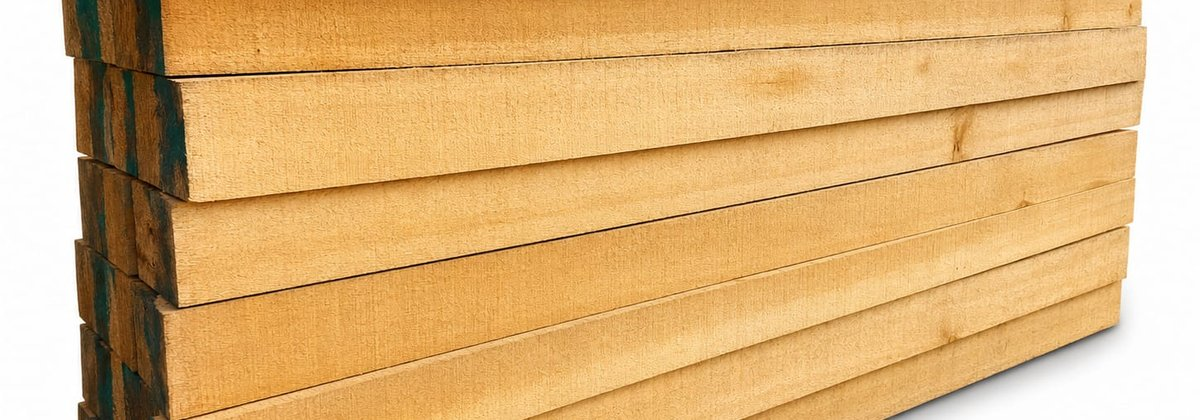
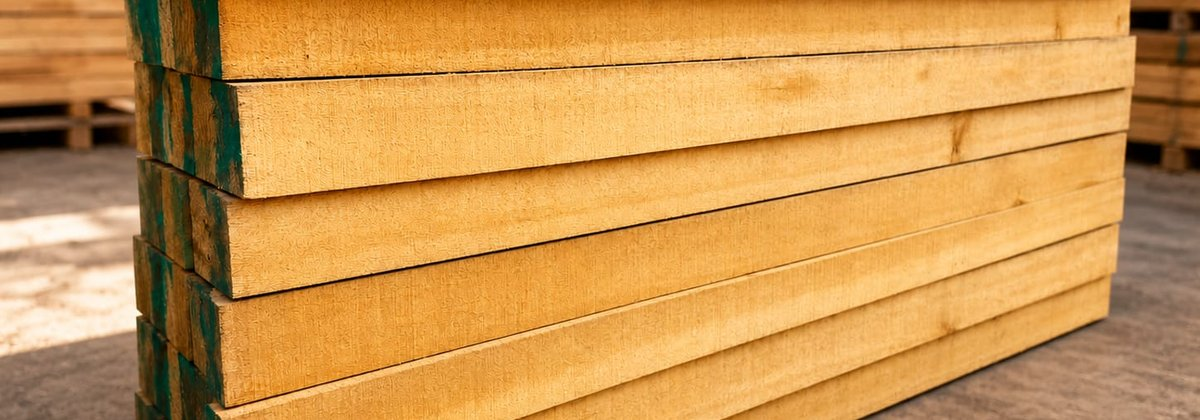
change

diff --git a/timber/index.html b/timber/index.html
@@ -114,7 +114,7 @@ footer{background:var(--espresso);color:#A8987F;padding:32px 0 100px;font-size:.
 <h3>Meranti / Marandi Wood</h3><p>Red Meranti, Yellow Meranti, Lal Marandi</p>
 <span class="t-price">₹1,100 – ₹1,800 <small>/ cft*</small></span>
 <span class="t-go">View details & rate →</span></a><a class="t-card" href="partal/">
-<img class="hub-thumb" src="images/partal-wood-mohali.svg" alt="Partal Wood (Partal Lakdi) at Guru Kripa Timber &amp; Plywood, Mohali — Punjab&#x27;s largest timber range" title="Partal Wood Price in Mohali, Punjab" width="1200" height="420" loading="lazy">
+<img class="hub-thumb" src="images/partal-wood-mohali.jpg" alt="Partal Wood (Partal Lakdi) at Guru Kripa Timber &amp; Plywood, Mohali — Punjab&#x27;s largest timber range" title="Partal Wood Price in Mohali, Punjab" width="1200" height="420" loading="lazy">
 <h3>Partal Wood</h3><p>Partal Lakdi, Himalayan Spruce/Fir</p>
 <span class="t-price">₹550 – ₹900 <small>/ cft*</small></span>
 <span class="t-go">View details & rate →</span></a><a class="t-card" href="hollock/">
@@ -130,15 +130,15 @@ footer{background:var(--espresso);color:#A8987F;padding:32px 0 100px;font-size:.
 <h3>Malaysian Sal Wood</h3><p>Malaysian Saal</p>
 <span class="t-price">₹1,300 – ₹1,900 <small>/ cft*</small></span>
 <span class="t-go">View details & rate →</span></a><a class="t-card" href="white-oak/">
-<img class="hub-thumb" src="images/white-oak-wood-mohali.svg" alt="White Oak Wood (American White Oak) at Guru Kripa Timber &amp; Plywood, Mohali — Punjab&#x27;s largest timber range" title="White Oak Wood Price in India" width="1200" height="420" loading="lazy">
+<img class="hub-thumb" src="images/white-oak-wood-mohali.jpg" alt="White Oak Wood (American White Oak) at Guru Kripa Timber &amp; Plywood, Mohali — Punjab&#x27;s largest timber range" title="White Oak Wood Price in India" width="1200" height="420" loading="lazy">
 <h3>White Oak Wood</h3><p>American White Oak</p>
 <span class="t-price">₹3,200 – ₹4,800 <small>/ cft*</small></span>
 <span class="t-go">View details & rate →</span></a><a class="t-card" href="douglas-fir/">
-<img class="hub-thumb" src="images/douglas-fir-wood-mohali.svg" alt="Douglas Fir Wood (Douglas Wood) at Guru Kripa Timber &amp; Plywood, Mohali — Punjab&#x27;s largest timber range" title="Douglas Fir Wood Price" width="1200" height="420" loading="lazy">
+<img class="hub-thumb" src="images/douglas-fir-wood-mohali.jpg" alt="Douglas Fir Wood (Douglas Wood) at Guru Kripa Timber &amp; Plywood, Mohali — Punjab&#x27;s largest timber range" title="Douglas Fir Wood Price" width="1200" height="420" loading="lazy">
 <h3>Douglas Fir Wood</h3><p>Douglas Wood, Oregon Pine</p>
 <span class="t-price">₹1,600 – ₹2,400 <small>/ cft*</small></span>
 <span class="t-go">View details & rate →</span></a><a class="t-card" href="live-edge-slabs/">
-<img class="hub-thumb" src="images/live-edge-wood-slab-mohali.svg" alt="Live Edge Wood Slabs (Live Wood Table Tops) at Guru Kripa Timber &amp; Plywood, Mohali — Punjab&#x27;s largest timber range" title="Live Edge Wood Slabs &amp; Table Tops in Mohali" width="1200" height="420" loading="lazy">
+<img class="hub-thumb" src="images/live-edge-wood-slab-mohali.jpg" alt="Live Edge Wood Slabs (Live Wood Table Tops) at Guru Kripa Timber &amp; Plywood, Mohali — Punjab&#x27;s largest timber range" title="Live Edge Wood Slabs &amp; Table Tops in Mohali" width="1200" height="420" loading="lazy">
 <h3>Live Edge Wood Slabs</h3><p>Live Wood Table Tops, Natural Edge Slabs</p>
 <span class="t-price">₹450 – ₹1,500 <small>/ sq ft*</small></span>
 <span class="t-go">View details & rate →</span></a></div>

diff --git a/timber/douglas-fir/index.html b/timber/douglas-fir/index.html
@@ -10,7 +10,7 @@
 <meta property="og:type" content="product"><meta property="og:title" content="Douglas Fir Wood Price | Guru Kripa Timber Mohali">
 <meta property="og:description" content="Douglas fir (douglas wood) in Mohali &amp; Chandigarh — strong, straight imported softwood for beams, pergolas &amp; exposed structures. WhatsApp for douglas wood price.">
 <meta property="og:url" content="https://gurukripatimber.com/timber/douglas-fir/">
-<script type="application/ld+json">{"@context": "https://schema.org", "@type": "Product", "name": "Douglas Fir Wood", "description": "Douglas fir (douglas wood) in Mohali & Chandigarh — strong, straight imported softwood for beams, pergolas & exposed structures. WhatsApp for douglas wood price.", "image": {"@type": "ImageObject", "url": "https://gurukripatimber.com/timber/images/douglas-fir-wood-mohali.svg", "caption": "Douglas Fir Wood (Douglas Wood) at Guru Kripa Timber & Plywood, Mohali — Punjab's largest timber range"}, "brand": {"@type": "Brand", "name": "Guru Kripa Timber & Plywood"}, "offers": {"@type": "AggregateOffer", "priceCurrency": "INR", "availability": "https://schema.org/InStock", "seller": {"@type": "HomeGoodsStore", "name": "Guru Kripa Timber & Plywood", "telephone": "[phone redacted]", "address": {"@type": "PostalAddress", "streetAddress": "C-30, Phase 2, Industrial Area", "addressLocality": "Mohali", "addressRegion": "Punjab", "addressCountry": "IN"}}}, "areaServed": ["Mohali", "Chandigarh", "Panchkula", "Zirakpur", "Punjab", "Haryana"]}</script>
+<script type="application/ld+json">{"@context": "https://schema.org", "@type": "Product", "name": "Douglas Fir Wood", "description": "Douglas fir (douglas wood) in Mohali & Chandigarh — strong, straight imported softwood for beams, pergolas & exposed structures. WhatsApp for douglas wood price.", "image": {"@type": "ImageObject", "url": "https://gurukripatimber.com/timber/images/douglas-fir-wood-mohali.jpg", "caption": "Douglas Fir Wood (Douglas Wood) at Guru Kripa Timber & Plywood, Mohali — Punjab's largest timber range"}, "brand": {"@type": "Brand", "name": "Guru Kripa Timber & Plywood"}, "offers": {"@type": "AggregateOffer", "priceCurrency": "INR", "availability": "https://schema.org/InStock", "seller": {"@type": "HomeGoodsStore", "name": "Guru Kripa Timber & Plywood", "telephone": "[phone redacted]", "address": {"@type": "PostalAddress", "streetAddress": "C-30, Phase 2, Industrial Area", "addressLocality": "Mohali", "addressRegion": "Punjab", "addressCountry": "IN"}}}, "areaServed": ["Mohali", "Chandigarh", "Panchkula", "Zirakpur", "Punjab", "Haryana"]}</script>
 <script type="application/ld+json">{"@context": "https://schema.org", "@type": "FAQPage", "mainEntity": [{"@type": "Question", "name": "What is douglas wood used for?", "acceptedAnswer": {"@type": "Answer", "text": "Douglas fir is used for exposed beams, pergolas and long structural spans — it combines softwood workability with near-hardwood strength."}}, {"@type": "Question", "name": "What is douglas fir price in India?", "acceptedAnswer": {"@type": "Answer", "text": "Imported douglas fir ranges ₹1,600–₹2,400 per cubic foot depending on length and section. WhatsApp for today's rate."}}, {"@type": "Question", "name": "Can douglas fir be used outdoors?", "acceptedAnswer": {"@type": "Answer", "text": "Yes, with proper treatment and finishing it performs very well in pergolas and semi-exposed structures."}}]}</script>
 <script type="application/ld+json">{"@context": "https://schema.org", "@type": "BreadcrumbList", "itemListElement": [{"@type": "ListItem", "position": 1, "name": "Home", "item": "https://gurukripatimber.com/"}, {"@type": "ListItem", "position": 2, "name": "Timber", "item": "https://gurukripatimber.com/timber/"}, {"@type": "ListItem", "position": 3, "name": "Douglas Fir Wood", "item": "https://gurukripatimber.com/timber/douglas-fir/"}]}</script>
 <link rel="preconnect" href="https://fonts.googleapis.com"><link rel="preconnect" href="https://fonts.gstatic.com" crossorigin>
@@ -81,7 +81,7 @@ footer{background:var(--espresso);color:#A8987F;padding:32px 0 100px;font-size:.
 <p class="eyebrow">Direct Importers · Mohali · Serving Punjab & Haryana</p>
 <h1 class="display">Douglas Fir Wood</h1>
 <p class="altnames">Also known as: <b>Douglas Wood, Oregon Pine</b></p>
-<img class="wood-img" src="../images/douglas-fir-wood-mohali.svg" alt="Douglas Fir Wood (Douglas Wood) at Guru Kripa Timber &amp; Plywood, Mohali — Punjab&#x27;s largest timber range" title="Douglas Fir Wood Price" width="1200" height="420" loading="eager">
+<img class="wood-img" src="../images/douglas-fir-wood-mohali.jpg" alt="Douglas Fir Wood (Douglas Wood) at Guru Kripa Timber &amp; Plywood, Mohali — Punjab&#x27;s largest timber range" title="Douglas Fir Wood Price" width="1200" height="420" loading="eager">
 <a class="btn btn-wa" href="https://wa.me/[phone redacted]?text=Hi%2C%20what%20is%20today%27s%20rate%20for%20Douglas%20Fir%20Wood%3F" target="_blank" rel="noopener">Get today's rate on WhatsApp</a>
 </div></header>
 <section><div class="wrap">

diff --git a/timber/live-edge-slabs/index.html b/timber/live-edge-slabs/index.html
@@ -10,7 +10,7 @@
 <meta property="og:type" content="product"><meta property="og:title" content="Live Edge Wood Slabs &amp; Table Tops in Mohali | Guru Kripa Timber">
 <meta property="og:description" content="Live edge wood slabs and table tops in Mohali &amp; Chandigarh — single-piece natural slabs for dining tables, office tables &amp; counters. WhatsApp for available slabs.">
 <meta property="og:url" content="https://gurukripatimber.com/timber/live-edge-slabs/">
-<script type="application/ld+json">{"@context": "https://schema.org", "@type": "Product", "name": "Live Edge Wood Slabs", "description": "Live edge wood slabs and table tops in Mohali & Chandigarh — single-piece natural slabs for dining tables, office tables & counters. WhatsApp for available slabs.", "image": {"@type": "ImageObject", "url": "https://gurukripatimber.com/timber/images/live-edge-wood-slab-mohali.svg", "caption": "Live Edge Wood Slabs (Live Wood Table Tops) at Guru Kripa Timber & Plywood, Mohali — Punjab's largest timber range"}, "brand": {"@type": "Brand", "name": "Guru Kripa Timber & Plywood"}, "offers": {"@type": "AggregateOffer", "priceCurrency": "INR", "availability": "https://schema.org/InStock", "seller": {"@type": "HomeGoodsStore", "name": "Guru Kripa Timber & Plywood", "telephone": "[phone redacted]", "address": {"@type": "PostalAddress", "streetAddress": "C-30, Phase 2, Industrial Area", "addressLocality": "Mohali", "addressRegion": "Punjab", "addressCountry": "IN"}}}, "areaServed": ["Mohali", "Chandigarh", "Panchkula", "Zirakpur", "Punjab", "Haryana"]}</script>
+<script type="application/ld+json">{"@context": "https://schema.org", "@type": "Product", "name": "Live Edge Wood Slabs", "description": "Live edge wood slabs and table tops in Mohali & Chandigarh — single-piece natural slabs for dining tables, office tables & counters. WhatsApp for available slabs.", "image": {"@type": "ImageObject", "url": "https://gurukripatimber.com/timber/images/live-edge-wood-slab-mohali.jpg", "caption": "Live Edge Wood Slabs (Live Wood Table Tops) at Guru Kripa Timber & Plywood, Mohali — Punjab's largest timber range"}, "brand": {"@type": "Brand", "name": "Guru Kripa Timber & Plywood"}, "offers": {"@type": "AggregateOffer", "priceCurrency": "INR", "availability": "https://schema.org/InStock", "seller": {"@type": "HomeGoodsStore", "name": "Guru Kripa Timber & Plywood", "telephone": "[phone redacted]", "address": {"@type": "PostalAddress", "streetAddress": "C-30, Phase 2, Industrial Area", "addressLocality": "Mohali", "addressRegion": "Punjab", "addressCountry": "IN"}}}, "areaServed": ["Mohali", "Chandigarh", "Panchkula", "Zirakpur", "Punjab", "Haryana"]}</script>
 <script type="application/ld+json">{"@context": "https://schema.org", "@type": "FAQPage", "mainEntity": [{"@type": "Question", "name": "What wood is used for live edge tables?", "acceptedAnswer": {"@type": "Answer", "text": "Popular choices are acacia, mango, sheesham and imported hardwoods — each slab differs, so we share photos of current stock on WhatsApp."}}, {"@type": "Question", "name": "What is live edge table top price?", "acceptedAnswer": {"@type": "Answer", "text": "Slabs range roughly ₹450–₹1,500 per square foot depending on species, thickness and figure. WhatsApp [phone redacted] and we'll send photos with sizes and rates."}}, {"@type": "Question", "name": "Do you make epoxy river tables?", "acceptedAnswer": {"@type": "Answer", "text": "We supply the slabs and can connect finishing through our Perfect Modulars division — ask on WhatsApp."}}]}</script>
 <script type="application/ld+json">{"@context": "https://schema.org", "@type": "BreadcrumbList", "itemListElement": [{"@type": "ListItem", "position": 1, "name": "Home", "item": "https://gurukripatimber.com/"}, {"@type": "ListItem", "position": 2, "name": "Timber", "item": "https://gurukripatimber.com/timber/"}, {"@type": "ListItem", "position": 3, "name": "Live Edge Wood Slabs", "item": "https://gurukripatimber.com/timber/live-edge-slabs/"}]}</script>
 <link rel="preconnect" href="https://fonts.googleapis.com"><link rel="preconnect" href="https://fonts.gstatic.com" crossorigin>
@@ -81,7 +81,7 @@ footer{background:var(--espresso);color:#A8987F;padding:32px 0 100px;font-size:.
 <p class="eyebrow">Direct Importers · Mohali · Serving Punjab & Haryana</p>
 <h1 class="display">Live Edge Wood Slabs</h1>
 <p class="altnames">Also known as: <b>Live Wood Table Tops, Natural Edge Slabs</b></p>
-<img class="wood-img" src="../images/live-edge-wood-slab-mohali.svg" alt="Live Edge Wood Slabs (Live Wood Table Tops) at Guru Kripa Timber &amp; Plywood, Mohali — Punjab&#x27;s largest timber range" title="Live Edge Wood Slabs &amp; Table Tops in Mohali" width="1200" height="420" loading="eager">
+<img class="wood-img" src="../images/live-edge-wood-slab-mohali.jpg" alt="Live Edge Wood Slabs (Live Wood Table Tops) at Guru Kripa Timber &amp; Plywood, Mohali — Punjab&#x27;s largest timber range" title="Live Edge Wood Slabs &amp; Table Tops in Mohali" width="1200" height="420" loading="eager">
 <a class="btn btn-wa" href="https://wa.me/[phone redacted]?text=Hi%2C%20what%20is%20today%27s%20rate%20for%20Live%20Edge%20Wood%20Slabs%3F" target="_blank" rel="noopener">Get today's rate on WhatsApp</a>
 </div></header>
 <section><div class="wrap">

diff --git a/timber/partal/index.html b/timber/partal/index.html
@@ -10,7 +10,7 @@
 <meta property="og:type" content="product"><meta property="og:title" content="Partal Wood Price in Mohali, Punjab | Guru Kripa Timber">
 <meta property="og:description" content="Partal wood in Mohali &amp; Punjab — spruce/fir softwood for shuttering, packaging &amp; framing. Best partal wood rates in Sahibzada Ajit Singh Nagar. WhatsApp for today&#x27;s price.">
 <meta property="og:url" content="https://gurukripatimber.com/timber/partal/">
-<script type="application/ld+json">{"@context": "https://schema.org", "@type": "Product", "name": "Partal Wood", "description": "Partal wood in Mohali & Punjab — spruce/fir softwood for shuttering, packaging & framing. Best partal wood rates in Sahibzada Ajit Singh Nagar. WhatsApp for today's price.", "image": {"@type": "ImageObject", "url": "https://gurukripatimber.com/timber/images/partal-wood-mohali.svg", "caption": "Partal Wood (Partal Lakdi) at Guru Kripa Timber & Plywood, Mohali — Punjab's largest timber range"}, "brand": {"@type": "Brand", "name": "Guru Kripa Timber & Plywood"}, "offers": {"@type": "AggregateOffer", "priceCurrency": "INR", "availability": "https://schema.org/InStock", "seller": {"@type": "HomeGoodsStore", "name": "Guru Kripa Timber & Plywood", "telephone": "[phone redacted]", "address": {"@type": "PostalAddress", "streetAddress": "C-30, Phase 2, Industrial Area", "addressLocality": "Mohali", "addressRegion": "Punjab", "addressCountry": "IN"}}}, "areaServed": ["Mohali", "Chandigarh", "Panchkula", "Zirakpur", "Punjab", "Haryana"]}</script>
+<script type="application/ld+json">{"@context": "https://schema.org", "@type": "Product", "name": "Partal Wood", "description": "Partal wood in Mohali & Punjab — spruce/fir softwood for shuttering, packaging & framing. Best partal wood rates in Sahibzada Ajit Singh Nagar. WhatsApp for today's price.", "image": {"@type": "ImageObject", "url": "https://gurukripatimber.com/timber/images/partal-wood-mohali.jpg", "caption": "Partal Wood (Partal Lakdi) at Guru Kripa Timber & Plywood, Mohali — Punjab's largest timber range"}, "brand": {"@type": "Brand", "name": "Guru Kripa Timber & Plywood"}, "offers": {"@type": "AggregateOffer", "priceCurrency": "INR", "availability": "https://schema.org/InStock", "seller": {"@type": "HomeGoodsStore", "name": "Guru Kripa Timber & Plywood", "telephone": "[phone redacted]", "address": {"@type": "PostalAddress", "streetAddress": "C-30, Phase 2, Industrial Area", "addressLocality": "Mohali", "addressRegion": "Punjab", "addressCountry": "IN"}}}, "areaServed": ["Mohali", "Chandigarh", "Panchkula", "Zirakpur", "Punjab", "Haryana"]}</script>
 <script type="application/ld+json">{"@context": "https://schema.org", "@type": "FAQPage", "mainEntity": [{"@type": "Question", "name": "What is partal wood?", "acceptedAnswer": {"@type": "Answer", "text": "Partal is the local name for Himalayan spruce/fir softwood — light, straight-grained and economical, used mainly for shuttering, packaging and framing."}}, {"@type": "Question", "name": "What is partal wood price in Punjab?", "acceptedAnswer": {"@type": "Answer", "text": "Partal typically runs ₹550–₹900 per cubic foot depending on size and moisture. WhatsApp us for today's rate and ready sizes."}}, {"@type": "Question", "name": "What is partal wood called in English?", "acceptedAnswer": {"@type": "Answer", "text": "Partal is spruce/fir in English — sometimes loosely called whitewood."}}]}</script>
 <script type="application/ld+json">{"@context": "https://schema.org", "@type": "BreadcrumbList", "itemListElement": [{"@type": "ListItem", "position": 1, "name": "Home", "item": "https://gurukripatimber.com/"}, {"@type": "ListItem", "position": 2, "name": "Timber", "item": "https://gurukripatimber.com/timber/"}, {"@type": "ListItem", "position": 3, "name": "Partal Wood", "item": "https://gurukripatimber.com/timber/partal/"}]}</script>
 <link rel="preconnect" href="https://fonts.googleapis.com"><link rel="preconnect" href="https://fonts.gstatic.com" crossorigin>
@@ -81,7 +81,7 @@ footer{background:var(--espresso);color:#A8987F;padding:32px 0 100px;font-size:.
 <p class="eyebrow">Direct Importers · Mohali · Serving Punjab & Haryana</p>
 <h1 class="display">Partal Wood</h1>
 <p class="altnames">Also known as: <b>Partal Lakdi, Himalayan Spruce/Fir</b></p>
-<img class="wood-img" src="../images/partal-wood-mohali.svg" alt="Partal Wood (Partal Lakdi) at Guru Kripa Timber &amp; Plywood, Mohali — Punjab&#x27;s largest timber range" title="Partal Wood Price in Mohali, Punjab" width="1200" height="420" loading="eager">
+<img class="wood-img" src="../images/partal-wood-mohali.jpg" alt="Partal Wood (Partal Lakdi) at Guru Kripa Timber &amp; Plywood, Mohali — Punjab&#x27;s largest timber range" title="Partal Wood Price in Mohali, Punjab" width="1200" height="420" loading="eager">
 <a class="btn btn-wa" href="https://wa.me/[phone redacted]?text=Hi%2C%20what%20is%20today%27s%20rate%20for%20Partal%20Wood%3F" target="_blank" rel="noopener">Get today's rate on WhatsApp</a>
 </div></header>
 <section><div class="wrap">

diff --git a/timber/white-oak/index.html b/timber/white-oak/index.html
@@ -10,7 +10,7 @@
 <meta property="og:type" content="product"><meta property="og:title" content="White Oak Wood Price in India | Guru Kripa Timber Mohali">
 <meta property="og:description" content="American white oak wood in Mohali &amp; Chandigarh — premium imported hardwood for luxury furniture, flooring &amp; table tops. WhatsApp for white oak price.">
 <meta property="og:url" content="https://gurukripatimber.com/timber/white-oak/">
-<script type="application/ld+json">{"@context": "https://schema.org", "@type": "Product", "name": "White Oak Wood", "description": "American white oak wood in Mohali & Chandigarh — premium imported hardwood for luxury furniture, flooring & table tops. WhatsApp for white oak price.", "image": {"@type": "ImageObject", "url": "https://gurukripatimber.com/timber/images/white-oak-wood-mohali.svg", "caption": "White Oak Wood (American White Oak) at Guru Kripa Timber & Plywood, Mohali — Punjab's largest timber range"}, "brand": {"@type": "Brand", "name": "Guru Kripa Timber & Plywood"}, "offers": {"@type": "AggregateOffer", "priceCurrency": "INR", "availability": "https://schema.org/InStock", "seller": {"@type": "HomeGoodsStore", "name": "Guru Kripa Timber & Plywood", "telephone": "[phone redacted]", "address": {"@type": "PostalAddress", "streetAddress": "C-30, Phase 2, Industrial Area", "addressLocality": "Mohali", "addressRegion": "Punjab", "addressCountry": "IN"}}}, "areaServed": ["Mohali", "Chandigarh", "Panchkula", "Zirakpur", "Punjab", "Haryana"]}</script>
+<script type="application/ld+json">{"@context": "https://schema.org", "@type": "Product", "name": "White Oak Wood", "description": "American white oak wood in Mohali & Chandigarh — premium imported hardwood for luxury furniture, flooring & table tops. WhatsApp for white oak price.", "image": {"@type": "ImageObject", "url": "https://gurukripatimber.com/timber/images/white-oak-wood-mohali.jpg", "caption": "White Oak Wood (American White Oak) at Guru Kripa Timber & Plywood, Mohali — Punjab's largest timber range"}, "brand": {"@type": "Brand", "name": "Guru Kripa Timber & Plywood"}, "offers": {"@type": "AggregateOffer", "priceCurrency": "INR", "availability": "https://schema.org/InStock", "seller": {"@type": "HomeGoodsStore", "name": "Guru Kripa Timber & Plywood", "telephone": "[phone redacted]", "address": {"@type": "PostalAddress", "streetAddress": "C-30, Phase 2, Industrial Area", "addressLocality": "Mohali", "addressRegion": "Punjab", "addressCountry": "IN"}}}, "areaServed": ["Mohali", "Chandigarh", "Panchkula", "Zirakpur", "Punjab", "Haryana"]}</script>
 <script type="application/ld+json">{"@context": "https://schema.org", "@type": "FAQPage", "mainEntity": [{"@type": "Question", "name": "What is white oak wood price in India?", "acceptedAnswer": {"@type": "Answer", "text": "Imported American white oak ranges ₹3,200–₹4,800 per cubic foot depending on grade and thickness. WhatsApp us for current stock and rate."}}, {"@type": "Question", "name": "Is white oak better than teak?", "acceptedAnswer": {"@type": "Answer", "text": "They serve different looks: teak is oily and traditional; white oak is pale, modern and preferred by designers for contemporary interiors."}}, {"@type": "Question", "name": "Is white oak available in Mohali?", "acceptedAnswer": {"@type": "Answer", "text": "Yes — we stock imported American white oak at our Mohali yard. WhatsApp to confirm sizes before visiting."}}]}</script>
 <script type="application/ld+json">{"@context": "https://schema.org", "@type": "BreadcrumbList", "itemListElement": [{"@type": "ListItem", "position": 1, "name": "Home", "item": "https://gurukripatimber.com/"}, {"@type": "ListItem", "position": 2, "name": "Timber", "item": "https://gurukripatimber.com/timber/"}, {"@type": "ListItem", "position": 3, "name": "White Oak Wood", "item": "https://gurukripatimber.com/timber/white-oak/"}]}</script>
 <link rel="preconnect" href="https://fonts.googleapis.com"><link rel="preconnect" href="https://fonts.gstatic.com" crossorigin>
@@ -81,7 +81,7 @@ footer{background:var(--espresso);color:#A8987F;padding:32px 0 100px;font-size:.
 <p class="eyebrow">Direct Importers · Mohali · Serving Punjab & Haryana</p>
 <h1 class="display">White Oak Wood</h1>
 <p class="altnames">Also known as: <b>American White Oak</b></p>
-<img class="wood-img" src="../images/white-oak-wood-mohali.svg" alt="White Oak Wood (American White Oak) at Guru Kripa Timber &amp; Plywood, Mohali — Punjab&#x27;s largest timber range" title="White Oak Wood Price in India" width="1200" height="420" loading="eager">
+<img class="wood-img" src="../images/white-oak-wood-mohali.jpg" alt="White Oak Wood (American White Oak) at Guru Kripa Timber &amp; Plywood, Mohali — Punjab&#x27;s largest timber range" title="White Oak Wood Price in India" width="1200" height="420" loading="eager">
 <a class="btn btn-wa" href="https://wa.me/[phone redacted]?text=Hi%2C%20what%20is%20today%27s%20rate%20for%20White%20Oak%20Wood%3F" target="_blank" rel="noopener">Get today's rate on WhatsApp</a>
 </div></header>
 <section><div class="wrap">